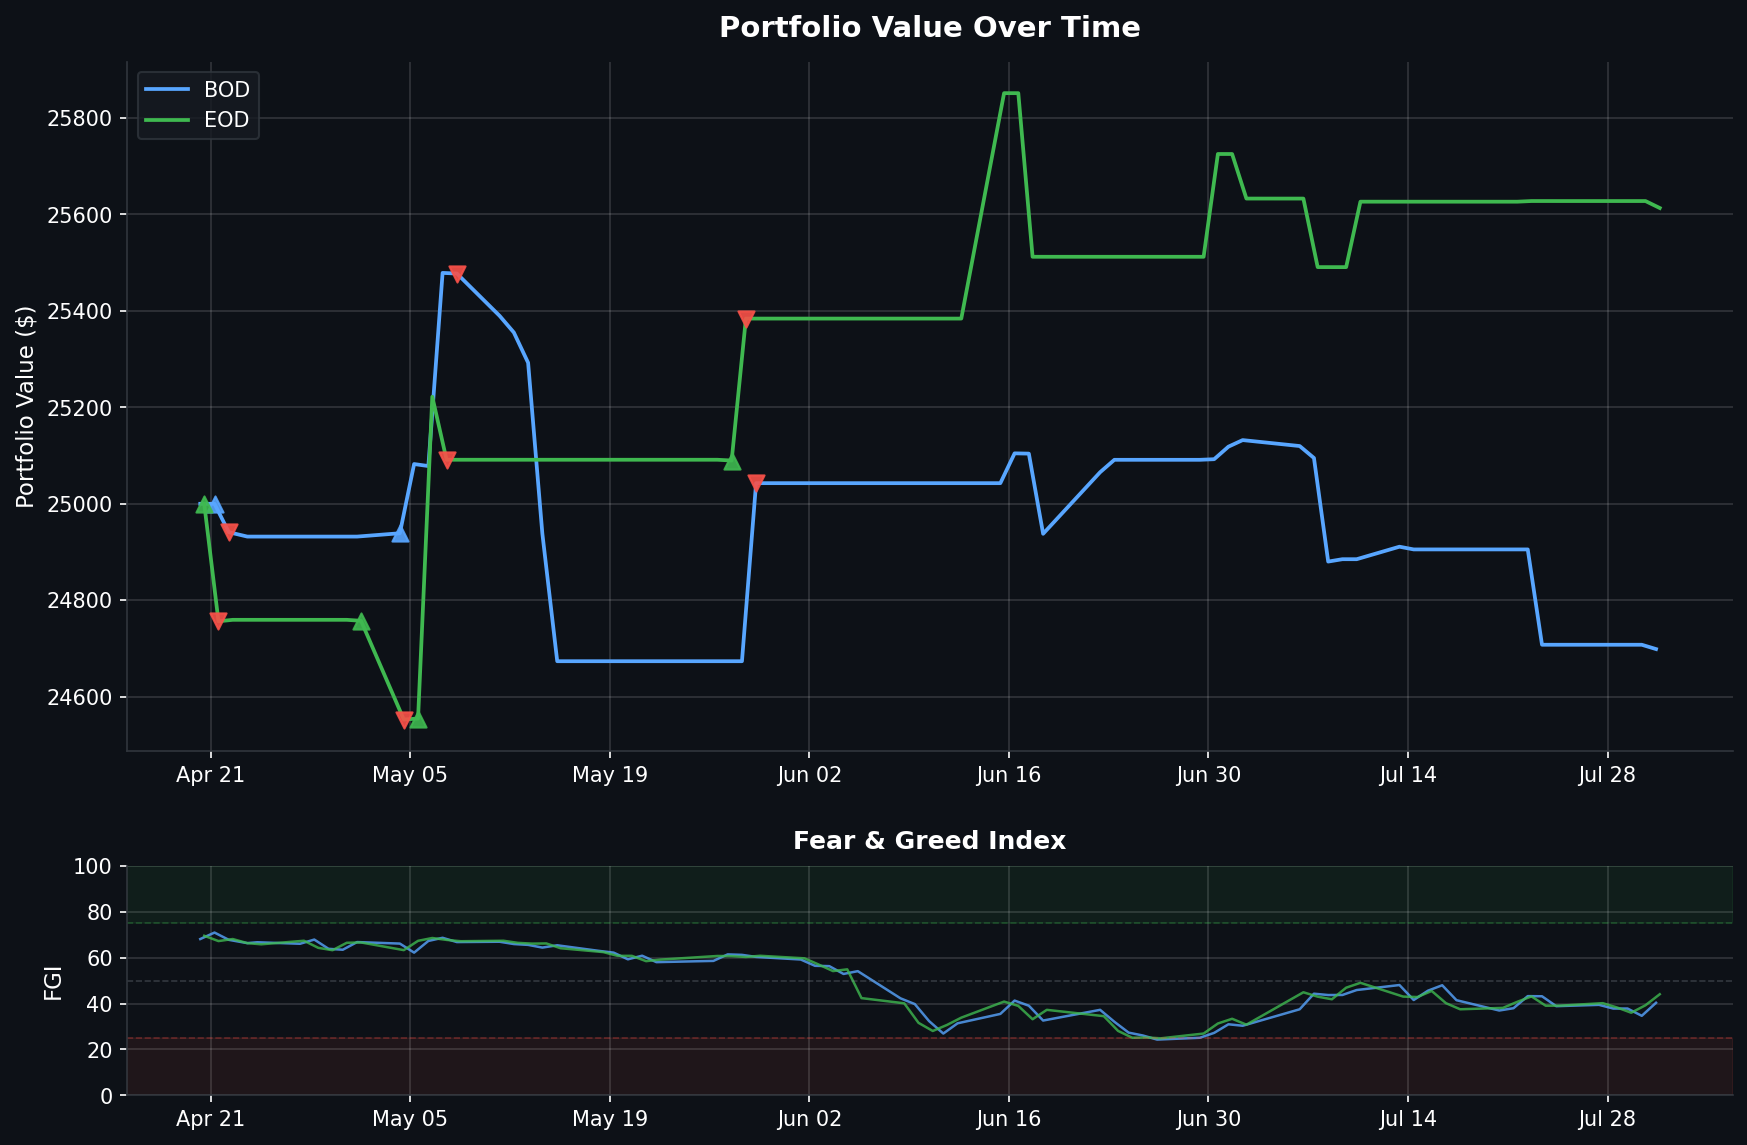
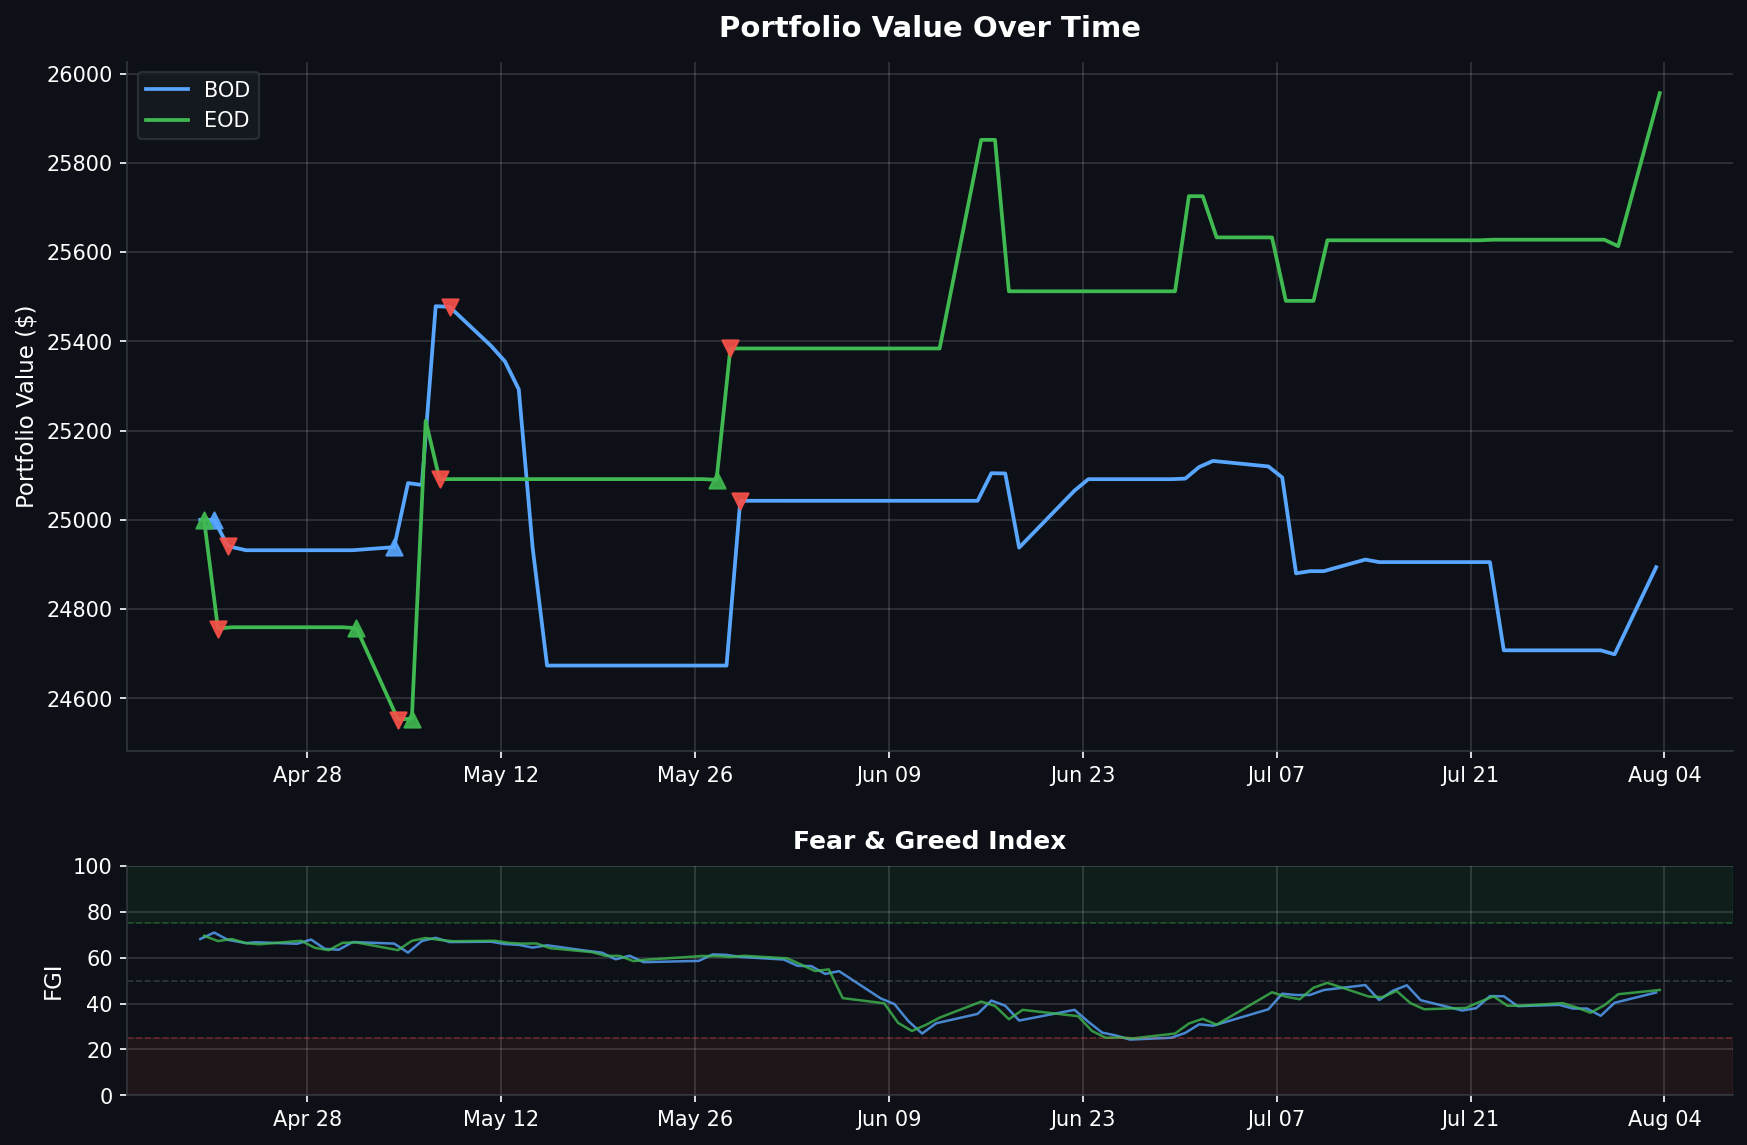
Daily data backup 2026-08-03

diff --git a/README.md b/README.md
@@ -1,6 +1,6 @@
 # Fear & Greed Index Trading Bot
 
-> Dashboard auto-updated daily at market close | Last update: **2026-07-31 13:30 PST**
+> Dashboard auto-updated daily at market close | Last update: **2026-08-03 13:30 PST**
 
 ![Portfolio Performance](assets/portfolio_chart.png)
 
@@ -10,14 +10,14 @@
 
 | Metric | Value |
 |--------|-------|
-| Portfolio Value | **$24,698.79** |
-| Buying Power | $66,572.71 |
-| Current FGI | 40.34 |
+| Portfolio Value | **$24,893.90** |
+| Buying Power | $67,119.01 |
+| Current FGI | 44.8 |
 | Position | FLAT |
 | Total P&L | **$+995** |
 | Win Rate | 50% (1W / 1L) |
 | Total Round Trips | 2 |
-| Last Signal | NO_ACTION @ 2026-07-31 09:36 |
+| Last Signal | NO_ACTION @ 2026-08-03 09:35 |
 
 <details>
 <summary>Trade History (2 trades)</summary>
@@ -34,11 +34,11 @@
 
 | Time | Action | Price | FGI | Momentum | Velocity | Volatility | Reason |
 |------|--------|-------|-----|----------|----------|------------|--------|
+| 08-03 09:35 | NO_ACTION | $750.80 | 44.8 | 4.87 | 2.32 | 0.55 | SELL incomplete - still holding 36 after 5 attempts |
 | 07-31 09:36 | NO_ACTION | $745.86 | 40.34 | 2.73 | 0.84 | 0.55 | BUY did not fill after 3 attempts |
 | 07-30 09:35 | NO_ACTION | $735.64 | 34.66 | -2.11 | -1.59 | 0.55 | Insufficient momentum/velocity for entry |
 | 07-29 09:35 | NO_ACTION | $739.73 | 37.83 | -0.53 | -0.34 | 0.55 | Insufficient momentum/velocity for entry |
 | 07-28 09:35 | NO_ACTION | $738.66 | 37.83 | -0.88 | -1.78 | 0.55 | Insufficient momentum/velocity for entry |
-| 07-27 09:35 | NO_ACTION | $744.34 | 39.43 | -1.06 | -1.27 | 0.55 | Insufficient momentum/velocity for entry |
 
 </details>
 
@@ -48,14 +48,14 @@
 
 | Metric | Value |
 |--------|-------|
-| Portfolio Value | **$25,613.36** |
-| Buying Power | $71,925.66 |
-| Current FGI | 44.06 |
+| Portfolio Value | **$25,956.17** |
+| Buying Power | $103,824.68 |
+| Current FGI | 45.91 |
 | Position | FLAT |
 | Total P&L | **$+302** |
 | Win Rate | 50% (2W / 2L) |
 | Total Round Trips | 4 |
-| Last Signal | NO_ACTION @ 2026-07-31 15:51 |
+| Last Signal | NO_ACTION @ 2026-08-03 15:52 |
 
 <details>
 <summary>Trade History (4 trades)</summary>
@@ -74,11 +74,11 @@
 
 | Time | Action | Price | FGI | Momentum | Velocity | Volatility | Reason |
 |------|--------|-------|-----|----------|----------|------------|--------|
+| 08-03 15:52 | NO_ACTION | $758.15 | 45.91 | 2.83 | 3.30 | 0.55 | SELL incomplete - still holding 34 after 5 attempts |
 | 07-31 15:51 | NO_ACTION | $748.53 | 44.06 | 4.29 | 1.92 | 0.55 | BUY did not fill after 3 attempts |
 | 07-30 15:50 | NO_ACTION | $741.45 | 39.26 | 1.41 | -0.30 | 0.55 | Insufficient momentum/velocity for entry |
 | 07-29 15:50 | NO_ACTION | $731.43 | 36.0 | -2.15 | -1.03 | 0.55 | Insufficient momentum/velocity for entry |
 | 07-28 15:50 | NO_ACTION | $741.12 | 38.29 | -0.89 | -0.26 | 0.55 | Insufficient momentum/velocity for entry |
-| 07-27 15:50 | NO_ACTION | $739.08 | 40.17 | 0.73 | -0.98 | 0.55 | Insufficient momentum/velocity for entry |
 
 </details>
 
